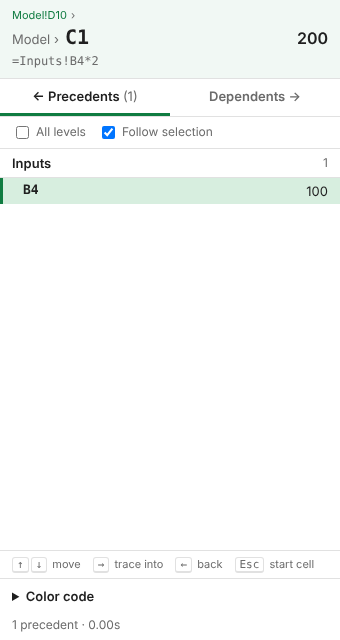
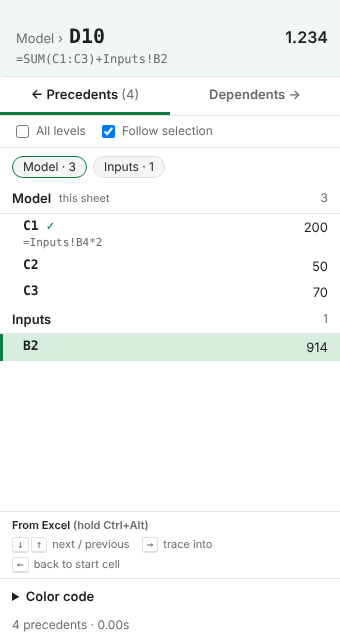
Navigate references from the Excel grid with Ctrl+Alt+arrows; sheet chips; start cell as home
Claude-Session: https://claude.ai/code/session_01Bo32iADHD9j8bCTQBa8Xof

diff --git a/addin/app.js b/addin/app.js
@@ -173,11 +173,24 @@
       return;
     }
     const originSheet = C.splitAddress(res.origin).sheet;
+    // One chip per sheet: an overview of where the references live, and a jump link.
+    const chips = document.createElement("div");
+    chips.className = "chips";
+    root.appendChild(chips);
     for (const g of res.groups) {
       const areas = g.areas.filter((a) => matches(a, g.sheet, q));
       if (!areas.length) continue;
       const h = document.createElement("div");
       h.className = "sheet-h";
+      const chip = document.createElement("button");
+      chip.className = "chip" + (g.sheet === originSheet ? " own" : "");
+      chip.textContent = `${g.sheet} · ${C.formatCount(areas.length)}`;
+      chip.title = `Jump to the ${g.sheet} references`;
+      chip.addEventListener("click", () => {
+        const idx = state.items.findIndex((x) => x.sheet === g.sheet);
+        if (idx >= 0) activate(idx, true);
+      });
+      chips.appendChild(chip);
       const name = document.createElement("span");
       name.textContent = g.sheet;
       h.appendChild(name);
@@ -256,18 +269,25 @@
   }
 
   // Highlights row i and (optionally) selects it in Excel.
+  // Highlights row i and (optionally) selects it in Excel.
+  // i = -1 means the traced cell itself (the card at the top).
   function activate(i, go) {
-    if (!state.items.length) return;
-    i = Math.max(0, Math.min(state.items.length - 1, i));
+    if (!state.result) return;
+    i = Math.max(-1, Math.min(state.items.length - 1, i));
     if (state.active >= 0 && state.items[state.active]) state.items[state.active].el.classList.remove("active");
     state.active = i;
-    const it = state.items[i];
-    it.el.classList.add("active");
-    it.el.scrollIntoView({ block: "nearest" });
+    $("origin").classList.toggle("here", i === -1);
+    const address = i === -1 ? state.result.origin : state.items[i].area.address;
+    if (i >= 0) {
+      state.items[i].el.classList.add("active");
+      state.items[i].el.scrollIntoView({ block: "nearest" });
+    } else {
+      $("results").scrollTop = 0;
+    }
     if (go) {
       // Debounced, so holding ↓ doesn't queue dozens of jumps.
       clearTimeout(state.navTimer);
-      state.navTimer = setTimeout(() => goTo(it.area.address), 60);
+      state.navTimer = setTimeout(() => goTo(address), 60);
     }
   }
 
@@ -291,7 +311,7 @@
     state.history.push(state.result.origin);
     await goTo(it.area.address);
     await runTrace({ address: it.area.address, keepHistory: true });
-    activate(0, false);
+    activate(-1, false); // you're now "at" the new cell; ↓ goes to its first reference
   }
 
   // Goes back `steps` levels in the drill-down path (← / Backspace / breadcrumb).
@@ -302,8 +322,13 @@
     for (let s = 0; s < (steps || 1) && state.history.length; s++) target = state.history.pop();
     await goTo(target);
     await runTrace({ address: target, keepHistory: true });
+    // Back at the parent cell; mark the branch we just came out of.
     const idx = state.items.findIndex((x) => sameAddr(x.area.address, from));
-    activate(idx >= 0 ? idx : 0, false);
+    activate(-1, false);
+    if (idx >= 0) {
+      state.items[idx].el.classList.add("visited");
+      state.items[idx].el.scrollIntoView({ block: "nearest" });
+    }
   }
 
   function setDir(dir) {
@@ -328,7 +353,7 @@
       case "Enter": drill(state.active < 0 ? 0 : state.active); break;
       case "ArrowLeft":
       case "Backspace": back(1); break;
-      case "Escape": if (state.result) goTo(state.result.origin); break;
+      case "Escape": activate(-1, true); break;
       default: return;
     }
     e.preventDefault();
@@ -375,6 +400,15 @@
     Office.actions.associate("colorCode", command(() => runColor("smart")));
     Office.actions.associate("colorCodeWorkbook", command(() => runColor("workbook")));
     Office.actions.associate("showPane", command(showPane));
+    // Arrow-key navigation that works while you're in the Excel grid.
+    const ensureTrace = async () => { if (!state.result) { await showPane(); await runTrace(); } };
+    Office.actions.associate("nextRef", command(async () => { await ensureTrace(); activate(state.active + 1, true); }));
+    Office.actions.associate("prevRef", command(async () => { await ensureTrace(); activate(state.active - 1, true); }));
+    Office.actions.associate("intoRef", command(async () => { await ensureTrace(); await drill(state.active < 0 ? 0 : state.active); }));
+    Office.actions.associate("backRef", command(async () => {
+      if (state.history.length && state.active === -1) await back(1);
+      else activate(-1, true);
+    }));
   }
 
   // -------------------------------------------------------------------- boot

diff --git a/addin/taskpane.css b/addin/taskpane.css
@@ -60,6 +60,8 @@ kbd {
 }
 
 /* ---- origin card ---- */
+.origin { border-left: 4px solid transparent; transition: border-color 0.15s; }
+.origin.here { border-left-color: var(--accent); }
 .origin { background: var(--origin-bg); border-bottom: 1px solid var(--line); padding: 8px 12px 10px; }
 .crumbs { display: flex; flex-wrap: wrap; gap: 2px 4px; font-size: 11px; color: var(--muted); min-height: 14px; }
 .crumbs button { border: none; padding: 0; color: var(--accent); font-size: 11px; }
@@ -136,6 +138,7 @@ main { flex: 1; overflow: auto; border-top: 1px solid var(--line); outline: none
   border-left: 3px solid transparent;
 }
 .item:hover { background: var(--hover); }
+.item.visited .addr::after { content: " ✓"; color: var(--accent); font-weight: 400; }
 .item.active { background: var(--active); border-left-color: var(--accent); }
 .item .addr { font: 600 13px Consolas, "Cascadia Mono", monospace; }
 .item .val { text-align: right; white-space: nowrap; overflow: hidden; text-overflow: ellipsis; }
@@ -148,6 +151,10 @@ main { flex: 1; overflow: auto; border-top: 1px solid var(--line); outline: none
   text-overflow: ellipsis;
 }
 .more { margin: 6px 20px; }
+.chips { display: flex; flex-wrap: wrap; gap: 6px; padding: 8px 12px 6px; }
+.chip { border-radius: 12px; padding: 2px 10px; font-size: 12px; background: var(--hover); }
+.chip.own { border-color: var(--accent); }
+.keys-title { width: 100%; font-weight: 600; color: var(--fg); }
 .keys { display: flex; flex-wrap: wrap; gap: 4px 12px; padding: 6px 12px; font-size: 11px; color: var(--muted); border-top: 1px solid var(--line); }
 
 /* ---- color section ---- */

diff --git a/addin/taskpane.html b/addin/taskpane.html
@@ -39,10 +39,10 @@
     </div>
   </main>
   <footer class="keys" id="keys">
-    <span><kbd>↑</kbd><kbd>↓</kbd> move</span>
+    <div class="keys-title">From Excel <span class="muted">(hold Ctrl+Alt)</span></div>
+    <span><kbd>↓</kbd><kbd>↑</kbd> next / previous</span>
     <span><kbd>→</kbd> trace into</span>
-    <span><kbd>←</kbd> back</span>
-    <span><kbd>Esc</kbd> start cell</span>
+    <span><kbd>←</kbd> back to start cell</span>
   </footer>
 
   <!-- Color coding (tucked away) -->

diff --git a/README.md b/README.md
@@ -55,16 +55,16 @@ On Mac the shortcuts use `⌘ ⌥ ⇧` instead of `Ctrl Alt Shift`.
 
 ### Trace pane
 - **Click any cell.** The top of the pane shows that cell (sheet, address, value and formula), and its precedents appear below, grouped by sheet.
-- **Move with the keyboard.** Click once inside the pane, then:
+- **Move with the keyboard, straight from the Excel grid** (no need to click the pane):
 
-  | Key | Action |
+  | Keys | Action |
   |---|---|
-  | `↑` `↓` | Move through the list. Excel jumps to each cell as you go |
-  | `→` or `Enter` | Trace into that cell (it becomes the new cell at the top) |
-  | `←` or `Backspace` | Go back one level |
-  | `Esc` | Jump back to the cell you started from |
-  | `Home` `End` `PgUp` `PgDn` | Jump through long lists |
+  | `Ctrl+Alt+↓` / `Ctrl+Alt+↑` | Next / previous precedent. Excel jumps to it. `↑` past the first one returns to your cell |
+  | `Ctrl+Alt+→` | Trace into the current one (it becomes the cell at the top) |
+  | `Ctrl+Alt+←` | Back to the cell at the top. Press again to go up one level |
 
+  Inside the pane, the plain arrow keys do the same, plus `Esc` for the start cell. On Mac use `⌘ ⌥` + arrows.
+- **Sheet chips** (e.g. `Model · 3`, `Inputs · 1`) show which sheets the references come from. Click one to jump there.
 - The trail at the top (e.g. `Model!D10 › Model!C1`) shows how you got there. Click any step to go back to it.
 - **Precedents / Dependents** tabs switch direction. **All levels** shows everything upstream or downstream.
 - **Follow selection** (on by default) re-traces whenever you click a new cell in Excel.
